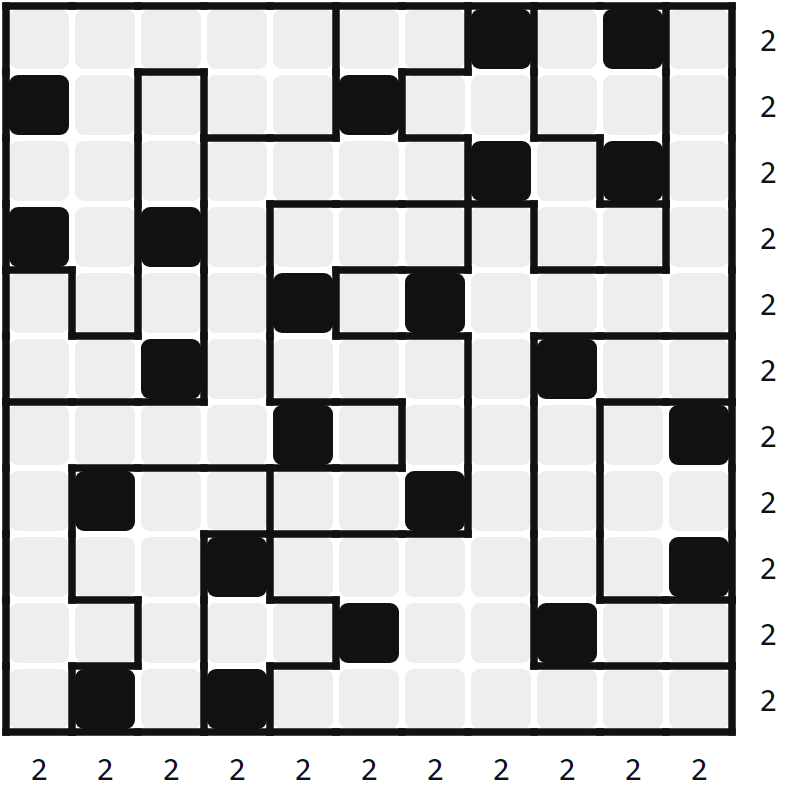
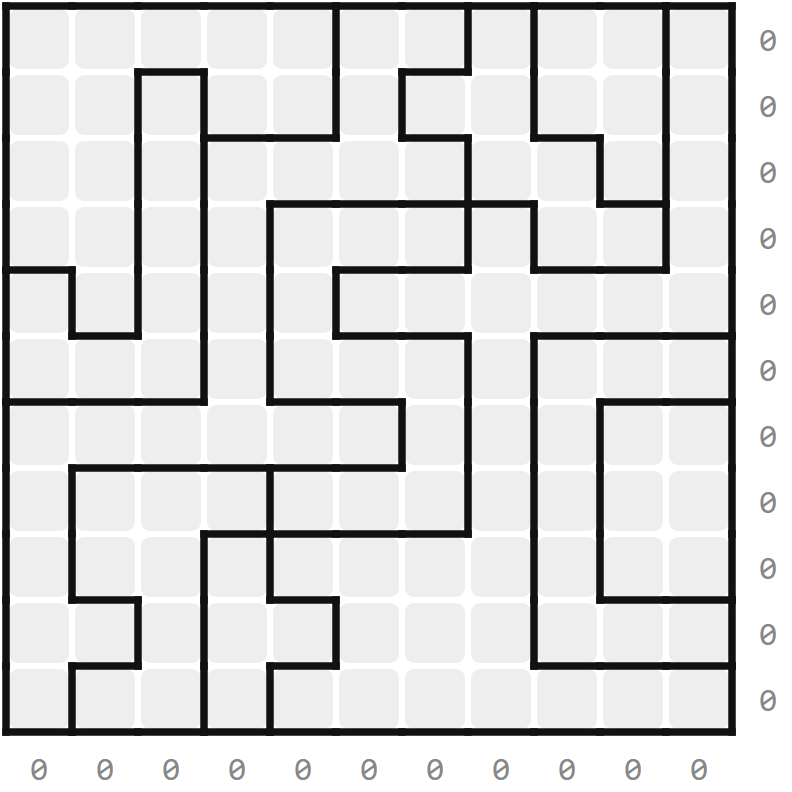
Sidebars, media inside the text column, unspoiled part 2 cover
Project and entry pages get a project list on the left and the page outline
on the right above 1100 px. Images, tables and videos no longer break out
of the 680 px column. The ASIC part 2 cover is the empty puzzle grid and is
not shown at the top of the page (cover_on_page: false). Home intro says
"expand knowns".

diff --git a/site/src/styles/site.css b/site/src/styles/site.css
@@ -183,16 +183,43 @@ main { padding-bottom: 3rem; }
   font-size: 0.92rem;
 }
 
-/* Wide elements break out of the text column, centred, up to --wide-col. */
-.wide, .prose > .figure, .prose > video, .prose > figure, .prose > table {
-  width: min(var(--wide-col), 100vw - 2 * var(--gutter));
-  max-width: none;
-  margin-left: 50%;
-  transform: translateX(-50%);
+/* Media stays inside the text column. Anything wider scrolls inside its box. */
+.prose img, .prose video, .prose svg, .prose iframe { max-width: 100%; height: auto; }
+.prose > table, .prose > .figure { max-width: 100%; }
+.prose pre, .prose > table { overflow-x: auto; }
+
+/* Sidebars: the project list on the left and the page outline on the right,
+   beside the text column on wide screens; hidden below 1100 px. */
+.frame { display: block; }
+.sidebar { display: none; }
+@media (min-width: 1100px) {
+  body.with-sidebars .site-header,
+  body.with-sidebars .site-footer,
+  body.with-sidebars .frame {
+    width: min(var(--text-col) + 2 * 240px, 100% - 2 * var(--gutter));
+  }
+  body.with-sidebars .frame {
+    display: grid;
+    grid-template-columns: 200px var(--text-col) 200px;
+    justify-content: space-between;
+    align-items: start;
+  }
+  body.with-sidebars main { width: auto; margin: 0; min-width: 0; }
+  body.with-sidebars .sidebar {
+    display: block;
+    position: sticky;
+    top: 1.5rem;
+    max-height: calc(100vh - 3rem);
+    overflow-y: auto;
+    font-size: 0.85rem;
+    line-height: 1.45;
+  }
+  .sidebar-title { margin: 0 0 0.5rem; font-family: var(--font-mono); font-size: 0.75rem; color: var(--muted); }
+  .sidebar li { margin: 0 0 0.45rem; }
+  .sidebar a { text-decoration: none; color: var(--muted); }
+  .sidebar a:hover { text-decoration: underline; color: var(--text); }
+  .sidebar a[aria-current="page"] { color: var(--text); font-weight: 600; }
 }
-/* The --gutter absorbs a desktop scrollbar, so 100vw here does not cause
-   horizontal scroll. Raw HTML blocks with their own inline width or margin
-   (video wrappers, the Star Battle widget) stay in the text column. */
 
 /* Home */
 
@@ -237,7 +264,7 @@ main { padding-bottom: 3rem; }
 .prose > :first-child { margin-top: 0; }
 .prose img { display: block; margin: 0 auto; }
 .prose > .figure { text-align: center; }
-.prose > table { display: block; overflow-x: auto; width: max-content; max-width: min(var(--wide-col), 100vw - 2 * var(--gutter)); }
+.prose > table { display: block; width: max-content; }
 
 .notes { margin-top: 3rem; }
 .log-list { list-style: none; padding: 0; }
@@ -294,11 +321,9 @@ main { padding-bottom: 3rem; }
    same media query. */
 .ink-page {
   display: block;
-  width: min(816px, 100vw - 2 * var(--gutter));
-  max-width: none;
+  width: 100%;
   height: auto;
-  margin: 1rem 50%;
-  transform: translateX(-50%);
+  margin: 1rem 0;
   background: #ffffff;
 }
 @media (prefers-color-scheme: dark) {

diff --git a/site/src/content.config.ts b/site/src/content.config.ts
@@ -35,6 +35,7 @@ const projects = defineCollection({
         start: z.coerce.date(),
         end: optionalDate,
         cover: image().optional(),
+        cover_on_page: z.boolean().default(true),
         publish: z.boolean().default(true),
       })
       .passthrough(),

diff --git a/CONTEXT.md b/CONTEXT.md
@@ -34,7 +34,7 @@ Local-only folders that git ignores: `social/`, `drafts/`, `interview-prep/`, `c
 ## Content rules
 
 - URLs: a project is at `/EngineeringPortfolio/projects/<slug>/`, where the slug is the folder name. These links were shared on LinkedIn and X and must not change. Entries are at `/projects/<slug>/log/<file stem>/`. Every non-markdown file under `content/projects/<slug>/` is served at `/EngineeringPortfolio/projects/<slug>/<relative path>`.
-- Writeup frontmatter: `title`, `description` (one line, the result), `status` (built-and-tested, design-study, in-progress, abandoned), `start`, `end` (omit while ongoing), `cover` (an image next to index.md), `publish` (default true).
+- Writeup frontmatter: `title`, `description` (one line, the result), `status` (built-and-tested, design-study, in-progress, abandoned), `start`, `end` (omit while ongoing), `cover` (an image next to index.md), `publish` (default true). `cover_on_page: false` keeps the cover for the home page and link previews but leaves it off the top of the writeup (part 2 of the ASIC puzzle uses it, so the solved grid doesn't spoil the puzzle).
 - Entry frontmatter: `date`, `type` (log, test, decision, sketch; default log), `title` (optional), `publish` (default true). `project` is derived from the folder. Handwritten entries carry `ink: 1` and are written by the ink plugin.
 - Hidden from the site: `publish: false`, `status: abandoned`, and every entry of a hidden project. Hidden media is not copied to `dist/`.
 - Prose is the owner's. Edits by tools change only frontmatter, paths and links. Never regenerate a note from a template.

diff --git a/content/projects/asicpuzzle2026-starbattle/index.md b/content/projects/asicpuzzle2026-starbattle/index.md
@@ -5,6 +5,7 @@ status: built-and-tested
 start: 2026-09-05
 end: 2026-09-10
 cover: regions.png
+cover_on_page: false
 publish: true
 ---
 [Part 1](/EngineeringPortfolio/projects/asicpuzzle2026) found the 121 bits that make the Jane Street puzzle chip print `(* TWO STARS *)`. This post is about what those bits mean.
